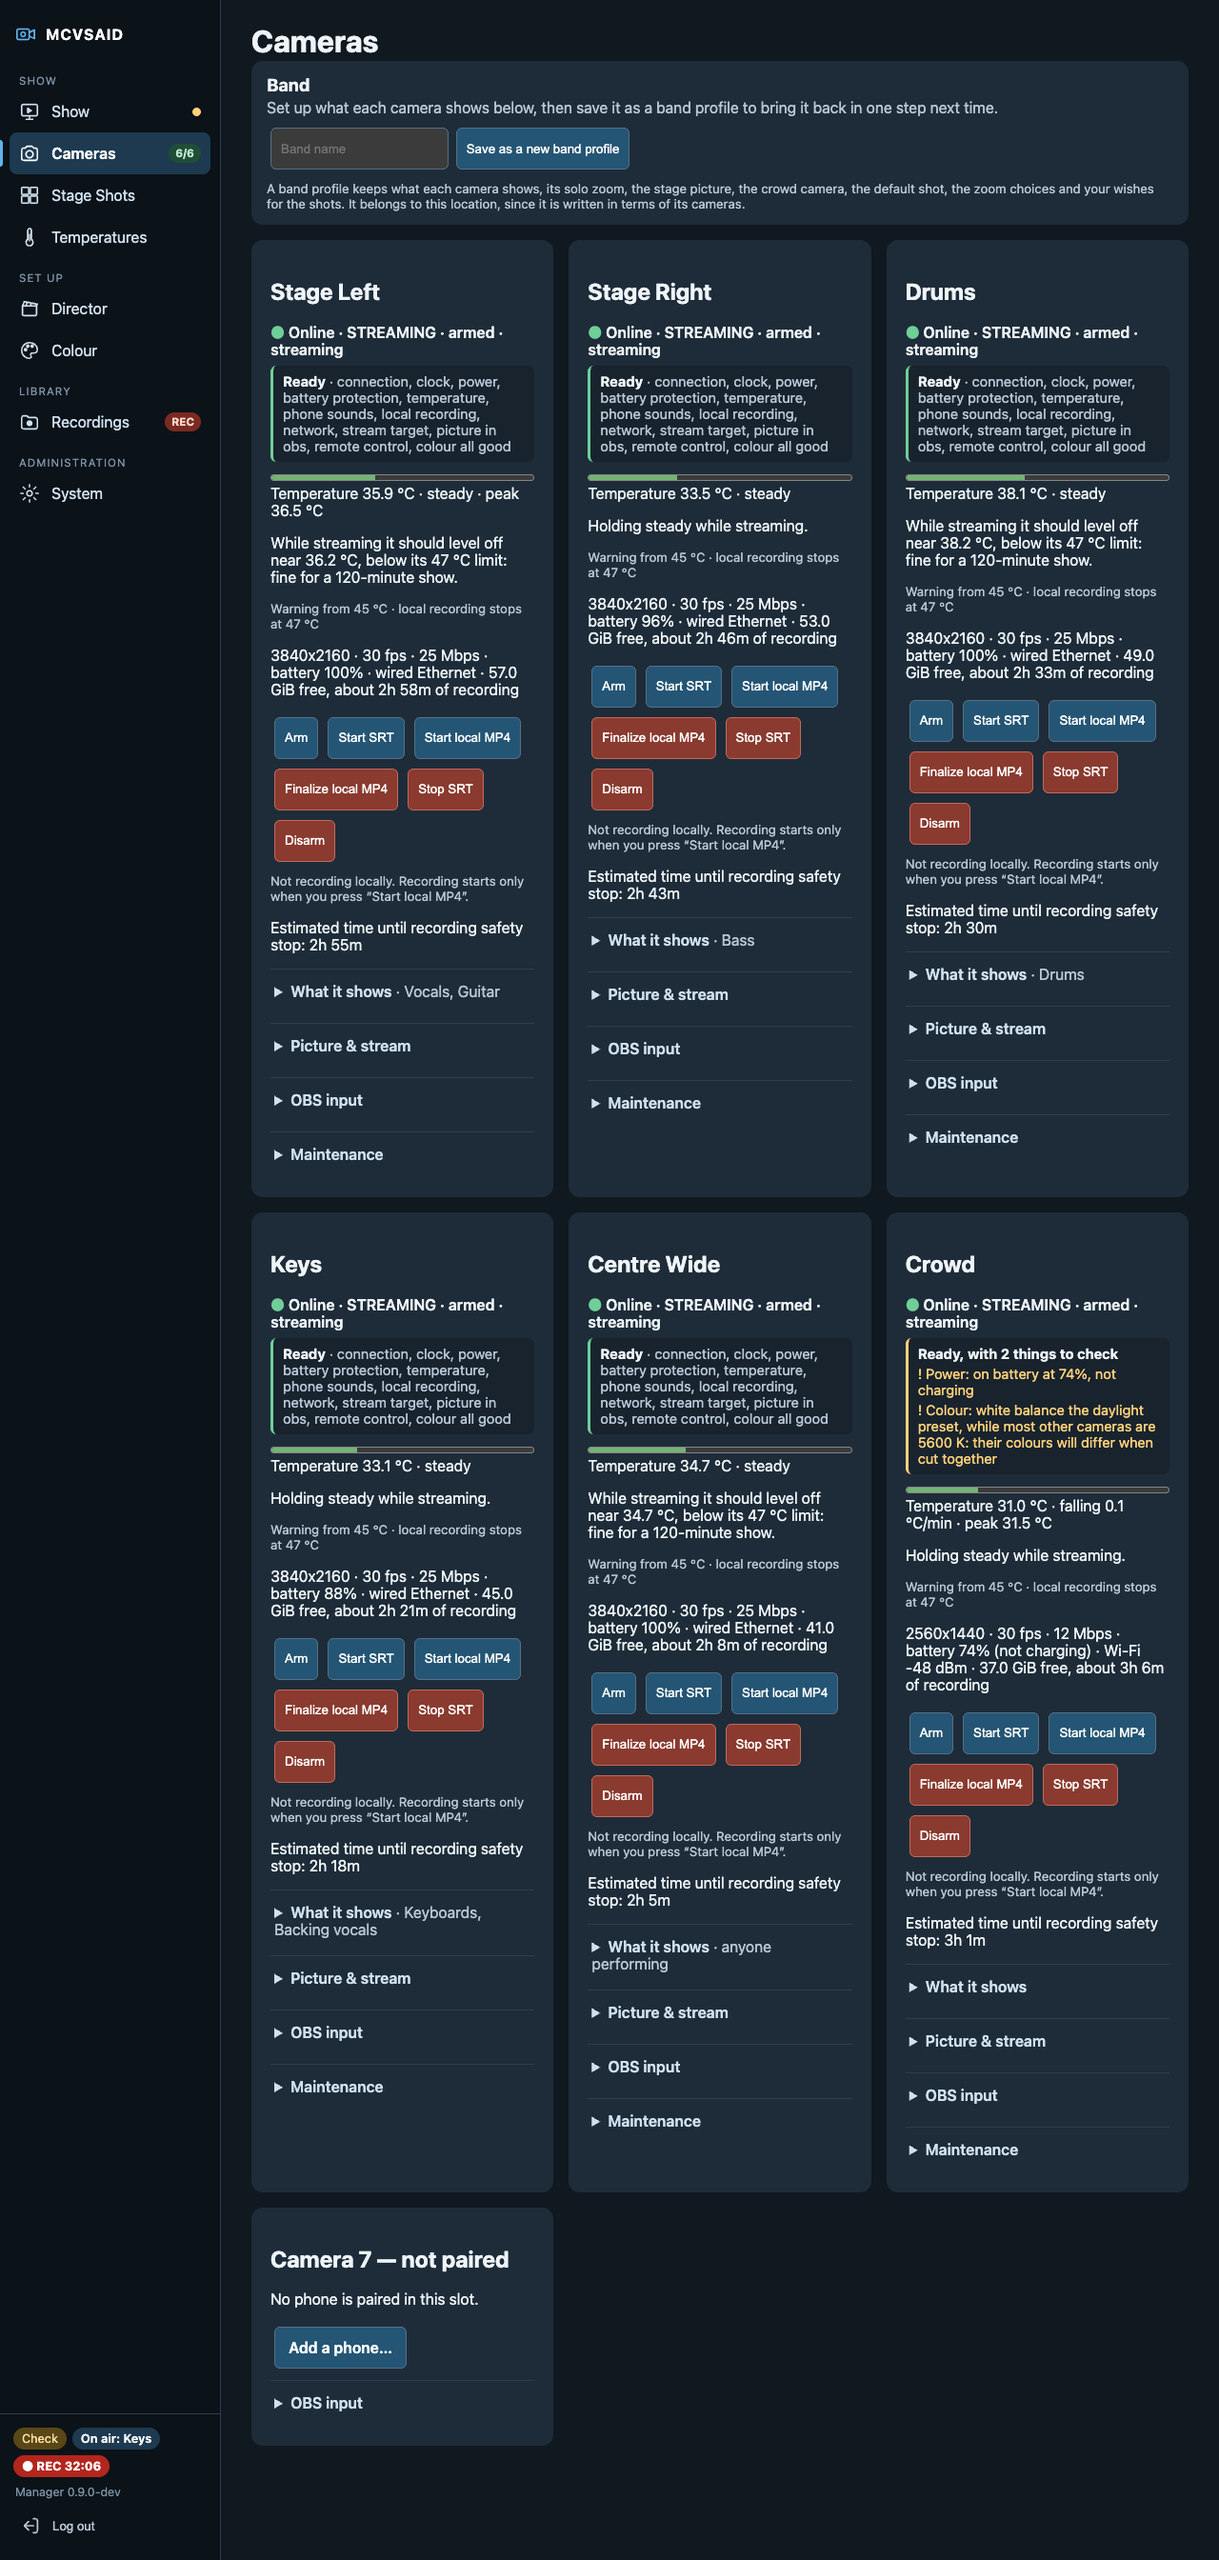
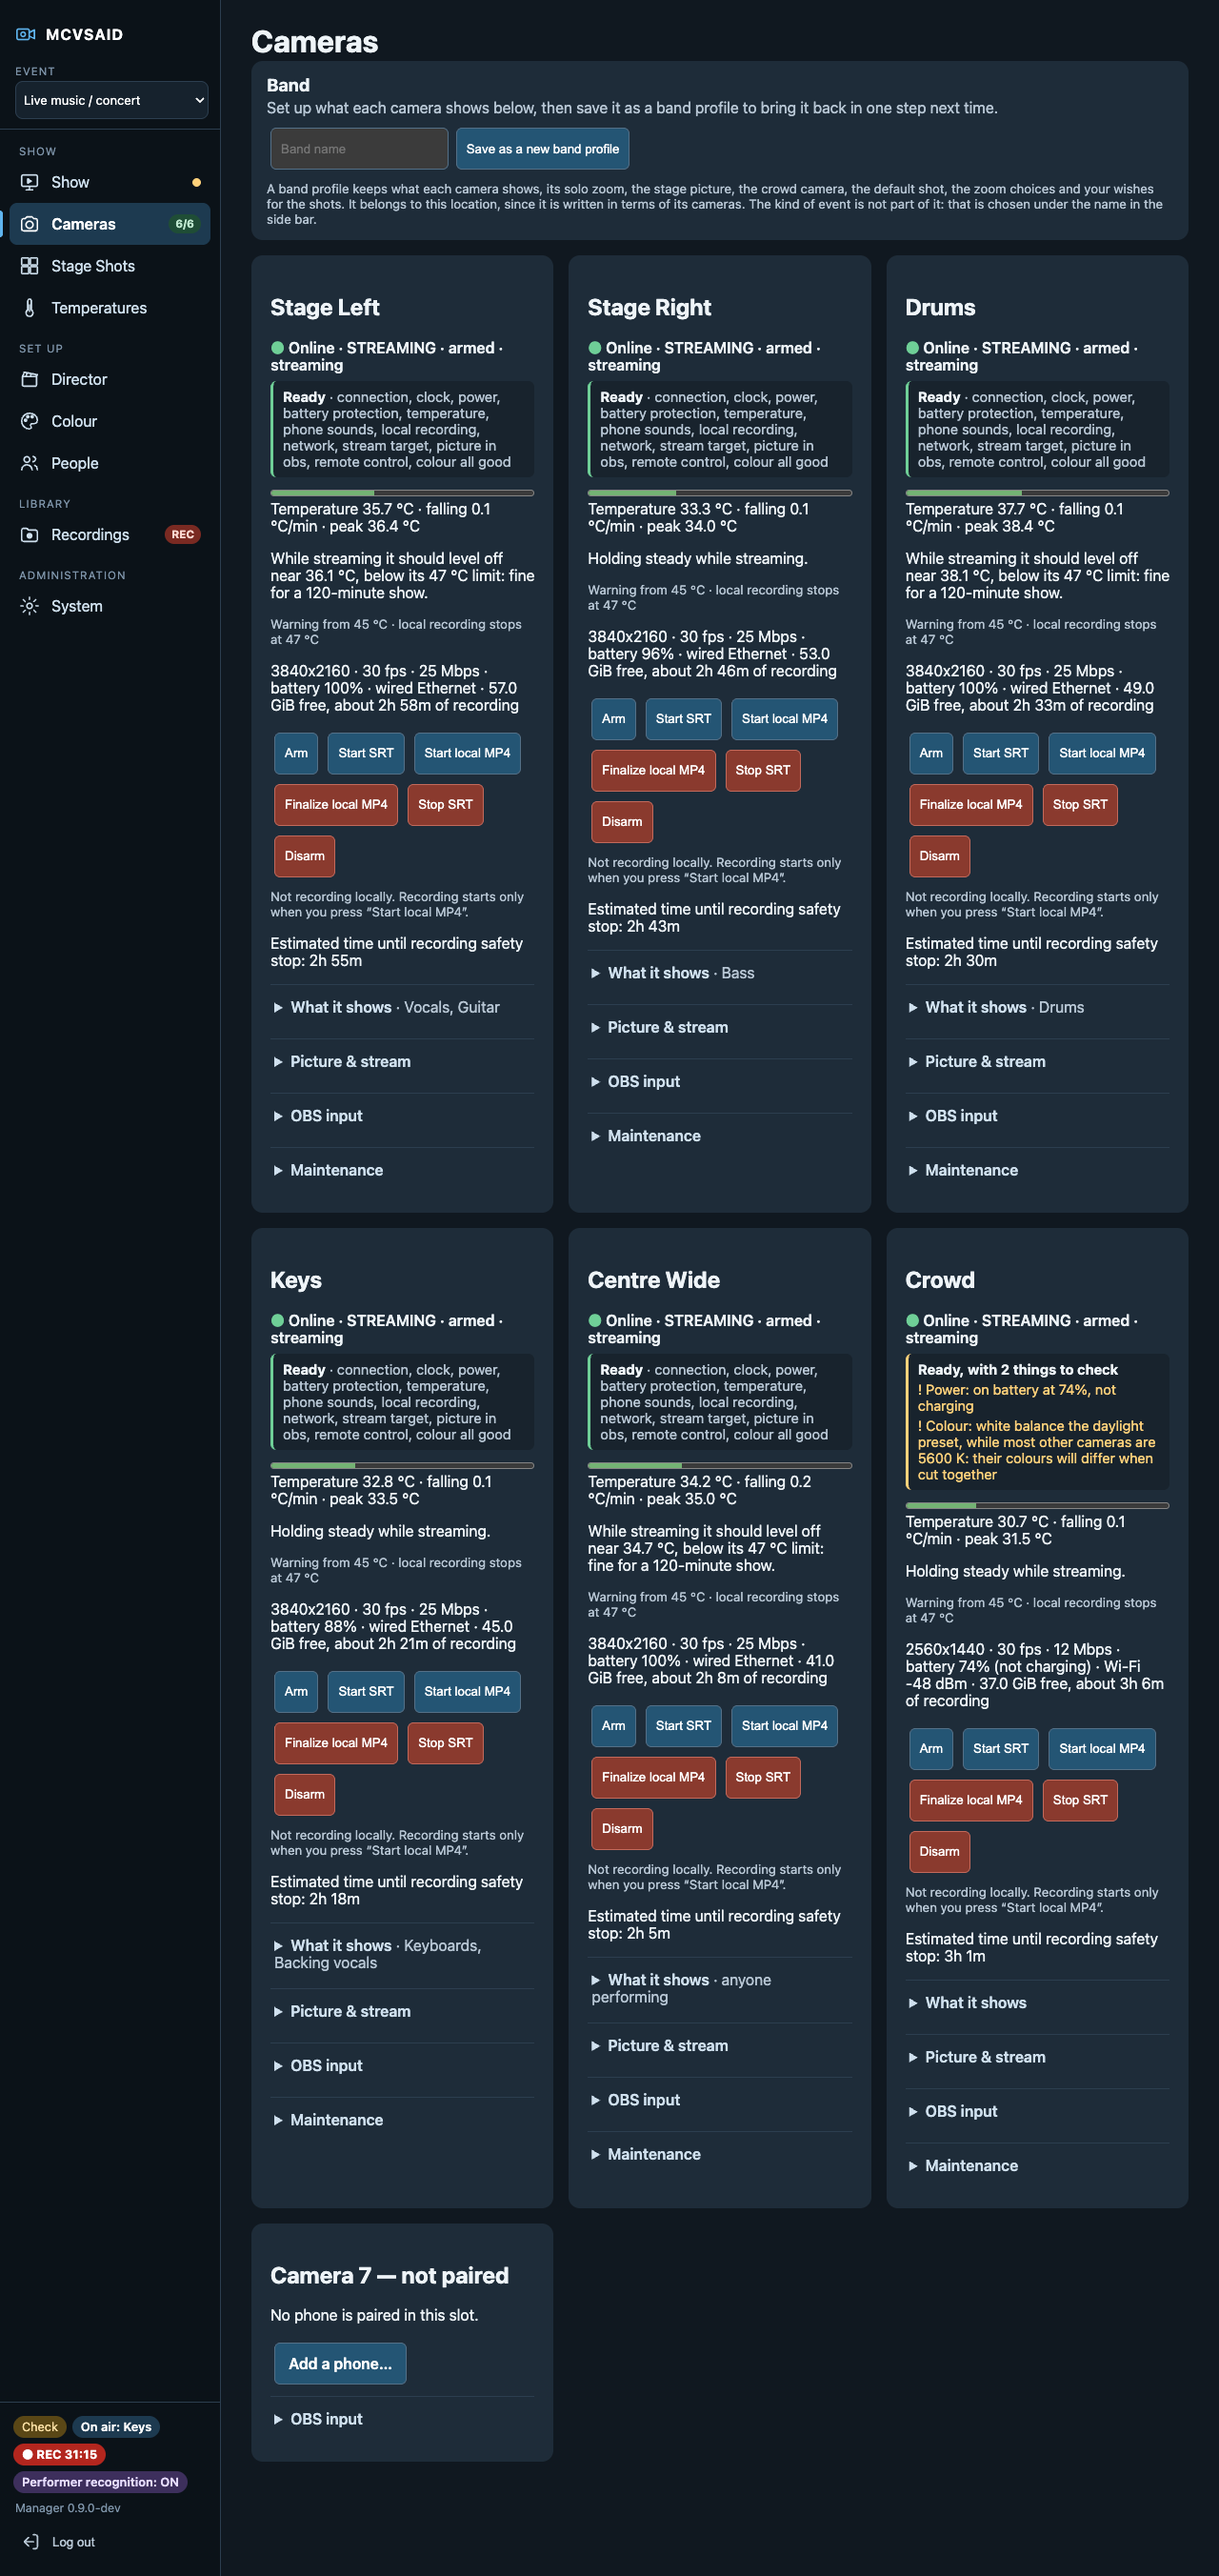
README: AI assistance levels, consenting performers, kinds of event, the camera relay
No AI, Standard or Plus, set up step by step; the People page for Plus, with
consent per purpose and nobody else identified; live music, worship,
podcasts, panels and theatre, with switching to whoever is talking; the
camera relay on by default, and camera files as a setting of their own.
Screenshots retaken from the demonstration manager (made-up cameras and
performers, drawn pictures, the set-up code hidden), with four new ones.

diff --git a/README.md b/README.md
@@ -7,6 +7,11 @@ its picture to [OBS](https://obsproject.com/) on a production computer. A manage
 step, watches the health of every phone, matches their colours, and can choose the shots itself with a vision model
 running on the computer's own graphics. Cameras can be mounted out of reach: everything is done from a browser.
 
+It directs **live music, church services, podcasts and talk shows, panels and conferences, and theatre and comedy**,
+each with its own camera roles, pacing and way of choosing shots. And it runs at the level of **AI assistance** a
+production wants: none at all, a vision model on the computer itself, or that model plus recognition of consenting
+performers.
+
 **Linux or Mac.** The production computer can run Linux or macOS. It was built on a Linux workstation and now runs live
 on a **MacBook Pro with an M5 Pro and 48 GB of memory**: OBS, the manager and the shot-choosing model all on the one
 laptop (see [The production computer](#the-production-computer)).
@@ -31,11 +36,12 @@ fetches the app from here; the app does nothing by itself until it is paired wit
  └──────────────┘                          │ MCVSAID manager                  │◀── browser on the
                                            │  · readiness and health          │    computer, a tablet,
                                            │  · feed alignment                │    or a phone
-                                           │  · AI shot choosing and zoom     │
+                                           │  · shot choosing (by hand or AI) │
                                            │  · colour matching               │
                                            │  · recordings                    │
                                            ├──────────────────────────────────┤
-                                           │ vision model (llama.cpp)         │
+                                           │ vision model, person detector    │
+                                           │ (optional, on this computer)     │
                                            └──────────────────────────────────┘
 ```
 
@@ -43,6 +49,8 @@ fetches the app from here; the app does nothing by itself until it is paired wit
   the production computer can instead keep every camera's stream itself, as it arrives.
 * Every picture carries a small **timing strip**, which the manager reads to line all the feeds up to the frame; OBS
   never shows it.
+* The **camera relay**, on by default, holds the look-ahead as compressed video rather than OBS holding it as pictures:
+  six 4K cameras took OBS from 11.0 GB of memory to 2.6 GB. It can also keep each camera's own file of a recording.
 * The control connection is **encrypted and pinned** to the manager's certificate. Phones find the manager by its
   address or by a name on the local network.
 
@@ -62,6 +70,17 @@ camera (connection, clock, power, temperature, Wi-Fi, stream target, picture in 
 needs attention, with what to do about it. Below it: the programme, what is on air, any camera or split screen one press
 away, recording and streaming, starting and stopping every camera at once, and a heat outlook for the length of the
 show.
+
+## Live music, worship, podcasts, panels, theatre
+
+![The kind of event, chosen in the side bar: here a house of worship](docs/screenshots/19-event-worship.png)
+
+The kind of event is chosen at the top of the side bar. Each kind offers its own roles for what a camera shows (a
+pastor, a reader, the choir and the congregation for a service; a host and guests for a podcast; a moderator and
+panelists; a performer and the house for theatre), uses its own words with the shot-choosing model, and keeps its own
+pace. For podcasts, panels and services, with each microphone on its own channel of a mixer, the director **switches to
+whoever is talking**, allowing for bleed between mics, coughs and pauses; laughter and applause bring in the audience
+camera.
 
 ## Every camera, in detail
 
@@ -95,6 +114,23 @@ crowd can call the shots by hand.
 Every phone's temperature is kept from every run, so one show can be set beside another: which camera ran hottest, how
 long it took to settle, and whether a change of mount or picture size helped.
 
+## AI assistance: none, Standard or Plus
+
+![AI assistance: each step of the set-up, checked as it stands](docs/screenshots/17-ai-assistance.png)
+
+How much AI helps is a choice for each installation, so a modest computer can still run a show:
+
+| Level | What it does | What it needs |
+| --- | --- | --- |
+| **No AI** (the default) | Shots by hand, from Stage Shots, by timed rotation, or switched to whoever is talking; the safety rules still cut away from a camera that fails | Nothing extra: no model is downloaded or run |
+| **Standard** | A vision model on the computer rates every camera, zooms in on and follows a performer, listens for the instrument to the fore, and can cut to the camera a performer looks at | About 7 GB of graphics memory: an Apple silicon Mac with 32 GB or more, or an NVIDIA card with 8 GB or more |
+| **Plus** | Standard, and consenting performers recognised: stars given priority on any camera, cameras that follow a named performer, framed ten times a second by a fast person detector | Standard's, and a small person detector (YOLOX-s) |
+
+Choosing a level shows its set-up as steps, each checked live: a button for what the manager can do itself (download
+the model, run it as a service on the computer only, point the director at it, add the detector), and a ready-to-copy
+command for what needs an administrator's password. It also says honestly whether a level fits the computer. Listening
+for instruments has its own steps, down to the OBS settings that let the manager hear the programme.
+
 ## The director
 
 ![Director page: how shots are chosen](docs/screenshots/06-director.png)
@@ -112,6 +148,25 @@ every cut lands cleanly. The director can also:
 * show the **crowd camera** when the crowd is lively and the stage is quiet.
 
 Without a model it can rotate through the cameras on a timer, or leave the choice to a person.
+
+## People: consenting performers, and nobody else
+
+![People page: made-up performers enrolled under a contract, stars and the cameras that follow them](docs/screenshots/18-people.png)
+
+At Plus, performers who have agreed can be enrolled on the day: take a picture from a camera, click the performer the
+detector outlines, and give a name, a role (a **star** gets priority on any camera) and the cameras that **follow
+them**. Reference pictures are taken in what they will perform in.
+
+* **Consent per purpose**: being recognised during the show, and, separately and optionally, helping improve MCVSAID.
+  One tick confirms a performer's signed release, or the production says once that releases are handled by contract.
+* **Nobody else is identified.** The director only ever recognises enrolled performers, and never zooms in on someone it
+  does not recognise.
+* **Kept briefly and encrypted**: a small thumbnail and an appearance descriptor, deleted at the end of the show day
+  unless the production chooses longer, and at once on removal or "Delete all performer data". Logs say "performer 2",
+  never a name. Pictures kept to improve MCVSAID are pseudonymised, with everyone else in them blurred.
+* While recognition is on, every page says so.
+
+The people in this screenshot are made up, and their pictures are drawn figures.
 
 ## Colour that matches from phone to phone
 
@@ -134,10 +189,10 @@ a show.
 
 ![Recordings on the computer: the programme, each camera's own file, the edit and the camera relay](docs/screenshots/09-recordings-pc.png)
 
-**On the computer.** The production computer can keep every camera's stream as it arrives (the camera relay), at no
-cost to the phones. Each programme recording then comes with one file per camera, the cuts as an edit (EDL) a
-videographer can open in Resolve, Premiere or Final Cut and re-cut, and each camera's colour LUT. The relay also holds
-the alignment delay compressed, which saves a great deal of memory in OBS.
+**On the computer.** The production computer can keep every camera's stream as it arrives (camera files, through the
+camera relay), at no cost to the phones. Each programme recording then comes with one file per camera, the cuts as an edit (EDL) a
+videographer can open in Resolve, Premiere or Final Cut and re-cut, and each camera's colour LUT. Camera files are a
+setting of their own, off until chosen, since they take disk space.
 
 ## Adding a phone
 
@@ -170,6 +225,12 @@ Phones mounted out of reach have to keep going on their own:
   brings it back, in step.
 
 ## System and locations
+
+![The camera relay, on by default: what each camera passes to OBS and how long it is held](docs/screenshots/12-relay.png)
+
+System › This PC shows the camera relay at work, the AI assistance level, manager updates and how OBS decodes each
+camera. The relay can be switched off there, under *Advanced: troubleshooting*; without the SRT library it falls back
+by itself to cameras streaming straight to OBS, and says why.
 
 ![System, Network: how the phones find the manager, and the camera Wi-Fi](docs/screenshots/11-system-network.png)
 
@@ -205,6 +266,7 @@ that will run your show, with every camera streaming at its intended size for th
 | --- | --- | --- |
 | **Computer** | MacBook Pro, M5 Pro (18 cores), 48 GB unified memory, macOS 26.6 | Intel i9-14900HX, 32 GB, NVIDIA RTX 4090 Laptop GPU, Linux Mint |
 | **Decoding the cameras** | in hardware (VideoToolbox): six 4K cameras for 27% of one processor core | on the processor: six 4K cameras for about 16% of it (the graphics card's decoder filled up at three 4K and three 1440p) |
+| **AI** | Standard (the Plus detector measured there too) | Standard |
 | **Shot-choosing model** | llama.cpp natively on the Mac's graphics (Metal), Qwen3-VL 8B: about 0.6 s an answer idle, about 2.2 s to rate six cameras during a show | llama.cpp in Docker on the graphics card: about 1 s an answer |
 | **Software** | OBS for macOS, Homebrew (Python 3.13, ffmpeg, SRT), launchd services | OBS (Flatpak), Python 3.12+, systemd user services |
 
@@ -219,9 +281,10 @@ that will run your show, with every camera streaming at its intended size for th
 The processor was 42% busy and the graphics 65%. In use, with five cameras at 4K, the Mac's memory in use has been seen
 to approach 40 GB (that reading includes OBS's canvas and recording and whatever else is open). So:
 
-* **48 GB is recommended for five or six cameras at 4K with the shot-choosing model**, with the camera relay on, which
-  saved about 1.4 GB of memory per 4K camera.
-* **32 GB** is enough for fewer or smaller cameras, or without the model on the same computer.
+* **48 GB is recommended for five or six cameras at 4K with the shot-choosing model**, with the camera relay on (the
+  default), which saved about 1.4 GB of memory per 4K camera.
+* **32 GB** is enough for fewer or smaller cameras, or at No AI. The person detector for Plus adds little: about 11 ms
+  a picture on the M5 Pro.
 * On a Mac the video decoder's load cannot be read, soundcheck by sound needs Linux (PipeWire), and listening for
   instruments needs a loopback sound device such as BlackHole.
 
